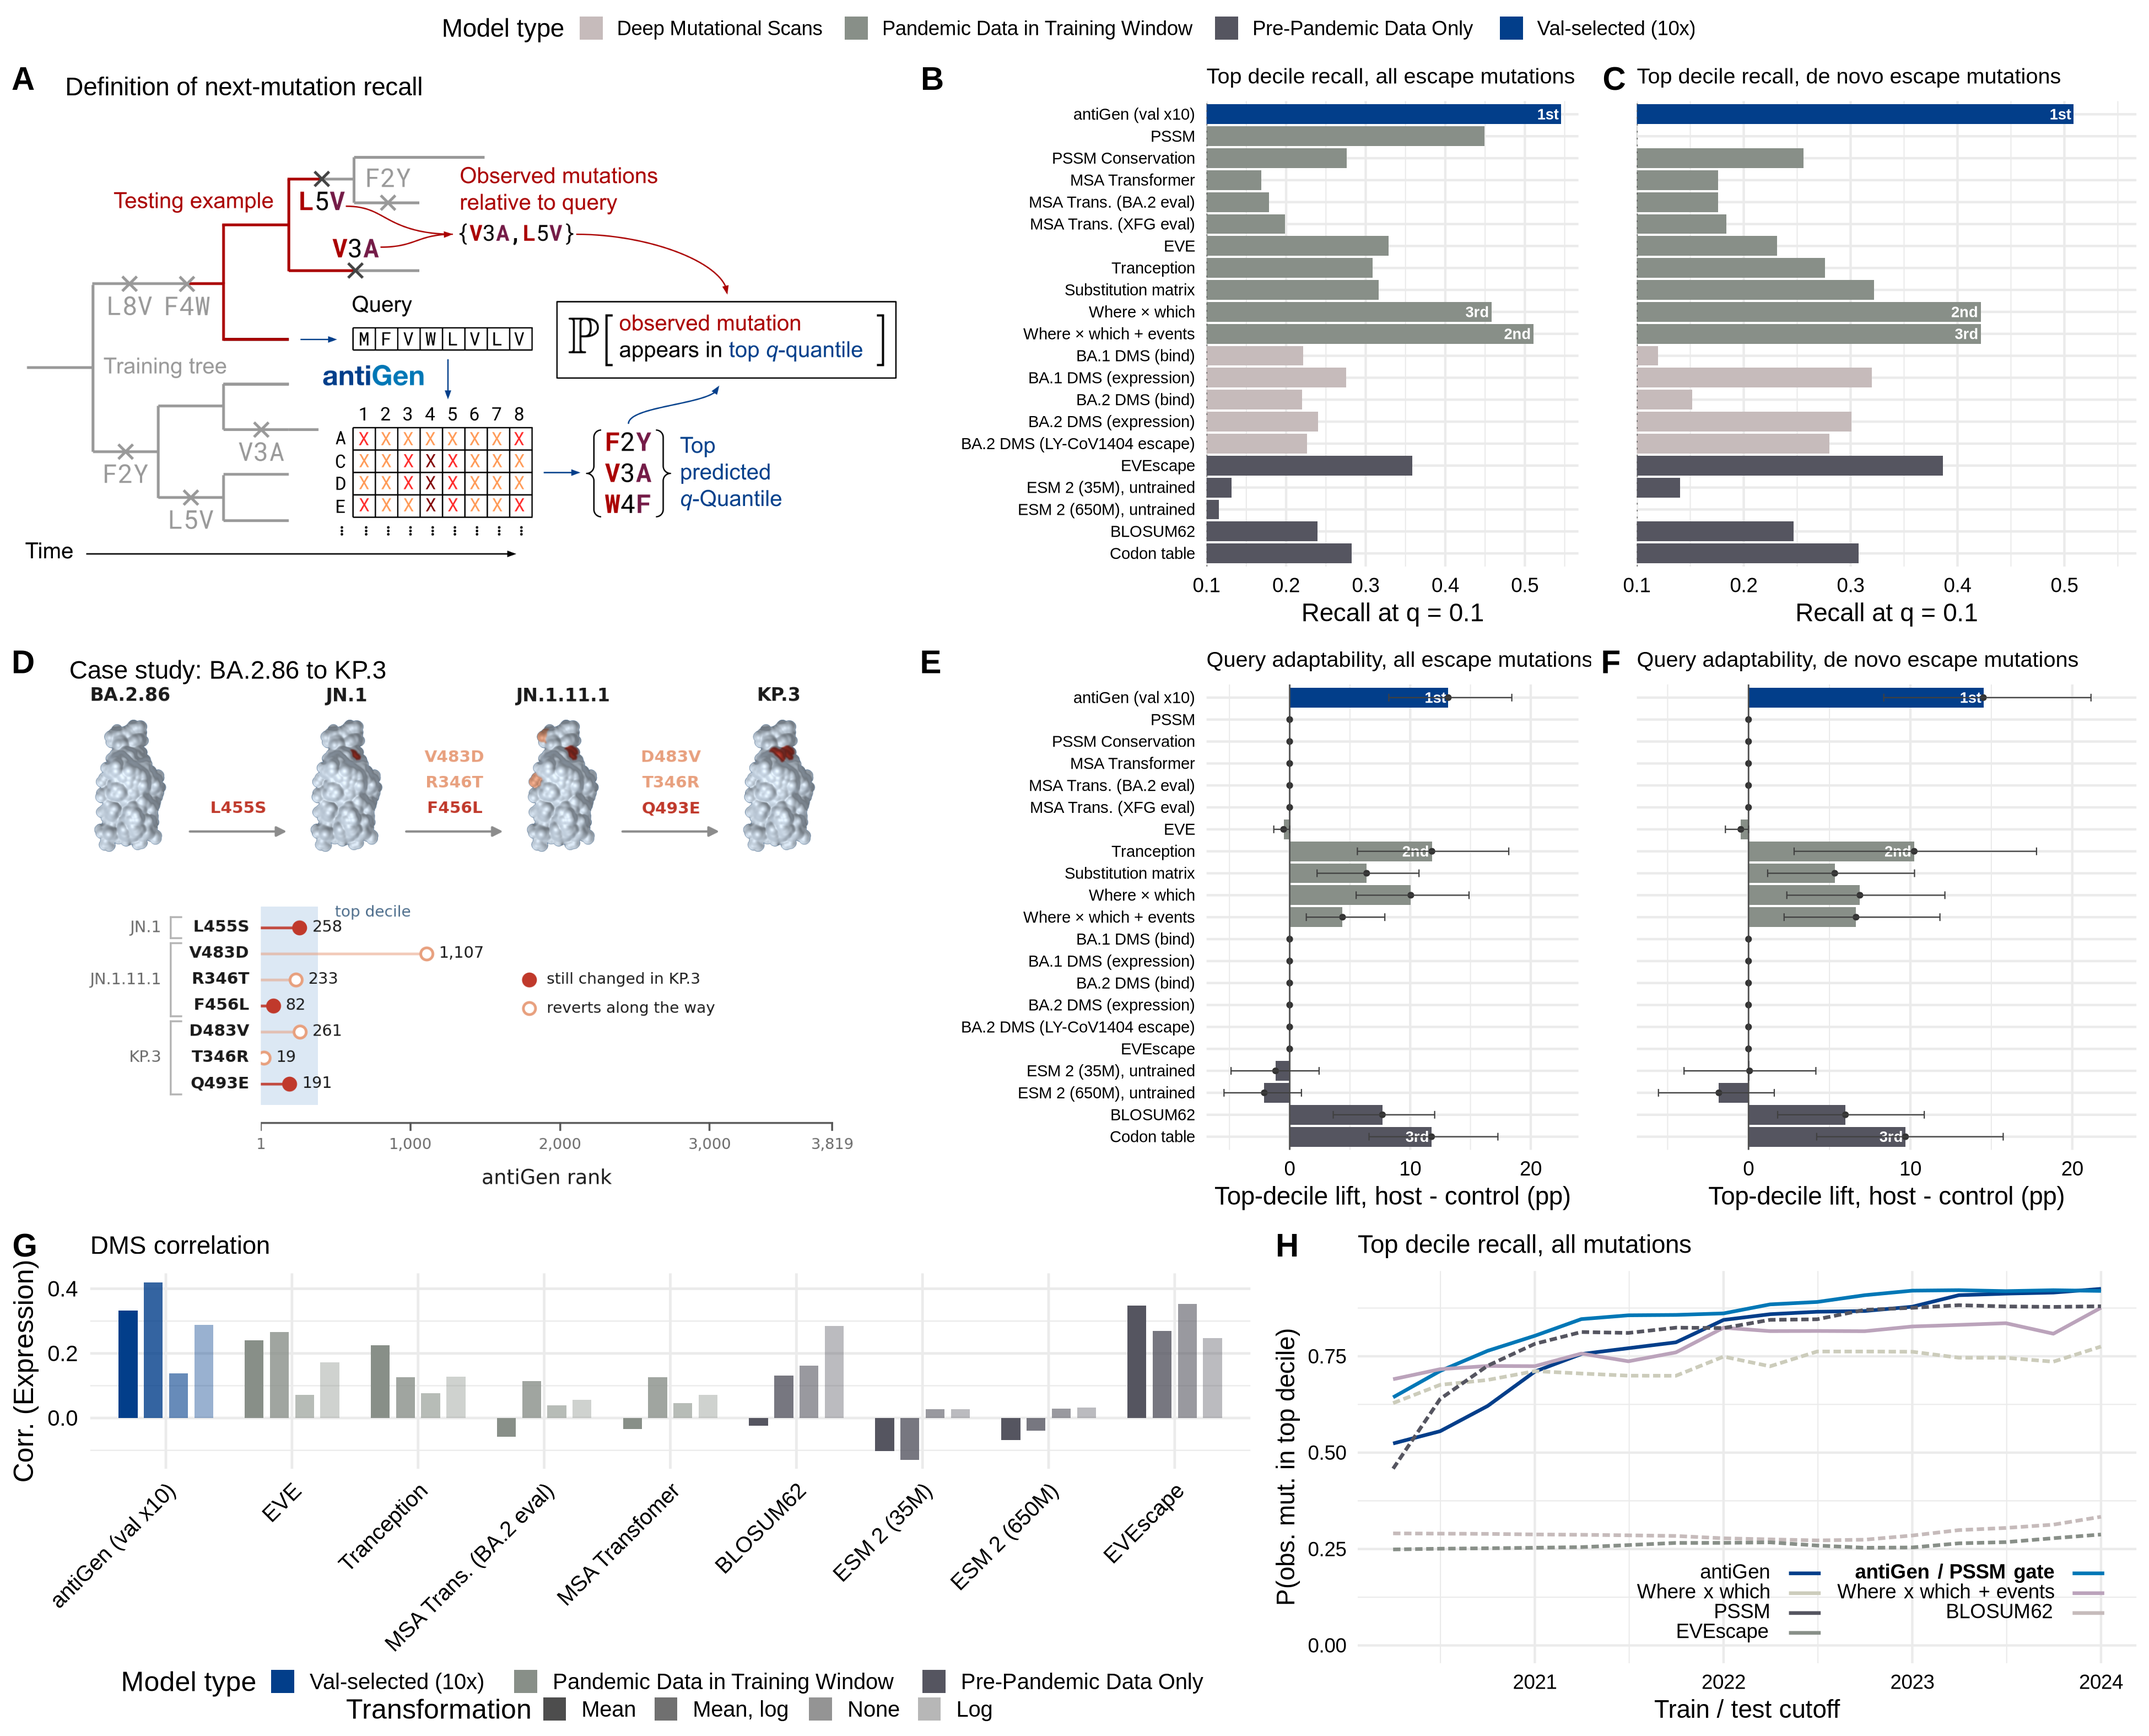
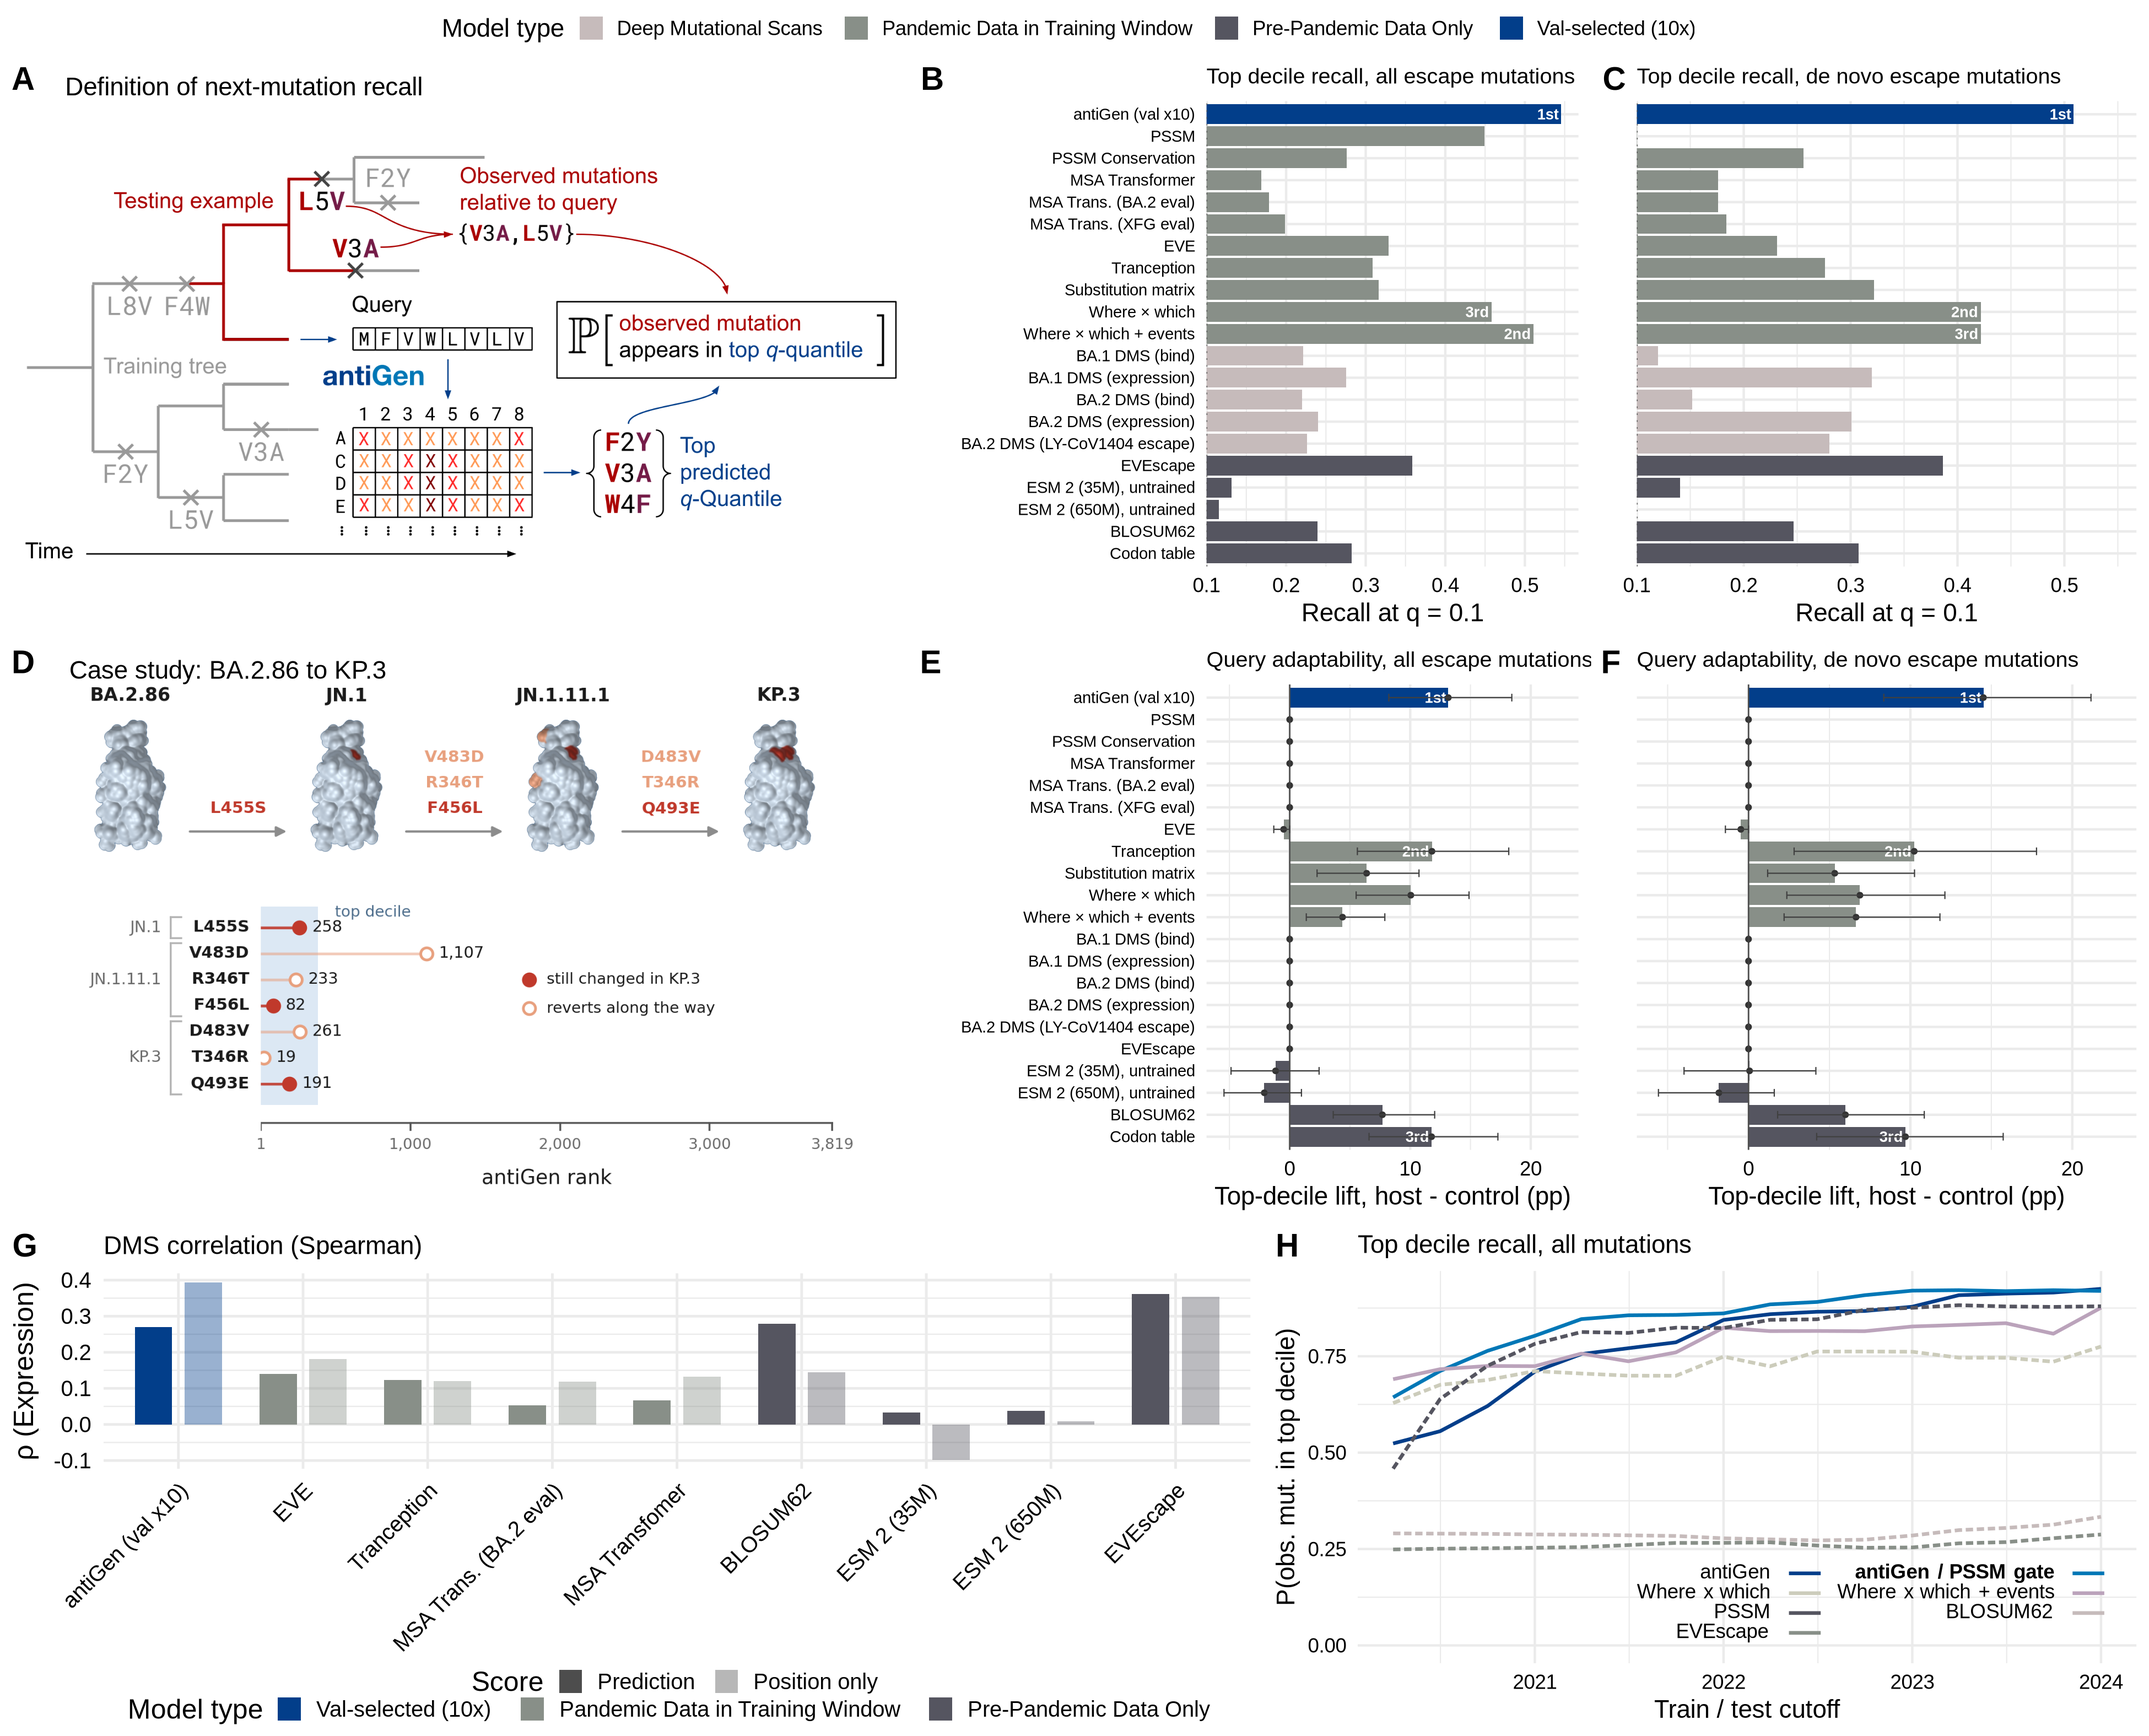
Panel G: Spearman, two bars instead of four
Four Pearson bars were {native, log space} x {prediction, position-only
control}. Rank correlation is invariant to a monotone transform, and
take_log is exactly that, so the space pair collapses -- verified to 1e-9
across all 27 models. That leaves prediction against control.

The control is now the row-mean of RANKS, not of scores. The score version
is not transform-invariant: log and linear disagree for all 27 models and
in SIGN for BLOSUM62 and both MSA Transformers, so which bar you drew
decided the control's sign. The rank version is invariant by construction
(0 of 27 disagree) and lands near the log form, which makes the negative
score-mean numbers an artifact of arithmetic averaging in probability
space. Ties are midranks, matching cor(method="spearman") -- which matters
because the control is constant within a site, so each site is a 20-way
tie block.

The labels are parameters of make_dms_corr_plot, not options. As options
they leaked: panels_sc2_export.R sets scratch figure names but
fig_sc2_aa20.R sets its own afterwards and wins, so that file has always
been overwriting the published sc2_results_aa20 and aa20_supp_* outputs,
and a label meant for this Spearman panel relabelled a Pearson panel
"Spearman". Verified those re-render byte-identical now.

diff --git a/experiments/multitree/NOTES.md b/experiments/multitree/NOTES.md
@@ -11293,3 +11293,75 @@ escape mutations and de novo escape mutations.
 * `antiGen/data/baselines/BloomNeher_2023-10-01.csv` -- new.
 * `examples/slurm/train_valsel_seed.sh` -- new.
 * `examples/slurm/train_antigen_valsel10.sh` -- `SEEDS`, and the completion test.
+
+## 102. Panel G becomes Spearman: two bars, not four (2026-11-01)
+
+Panel G drew four Pearson bars per model: {native space, log space} x {prediction,
+position-only control}. It now draws two Spearman bars: prediction, and a position-only
+control summarised by RANK.
+
+### Why four collapses to two
+
+Rank correlation is invariant to a monotone transform, and `take_log` is exactly that
+(exp for the pipeline models, log for the baselines). **Checked, not assumed**: across
+all 27 models the log and linear Spearmans agree to within 1e-9 for the prediction. So
+two of the four bars carried no information once the metric changed.
+
+The control does not collapse that way. `mean_norm` replaces each row by the mean of
+its SCORES, and a row-mean of exp(x) (arithmetic) orders sites differently from a
+row-mean of x (roughly geometric): log and linear disagree for **all 27** models, and
+in SIGN for BLOSUM62 (-0.017 vs 0.141) and both MSA Transformers (-0.165 vs 0.151).
+Which bar you drew decided whether the control looked positive or negative.
+
+So the control is the row-mean of RANKS instead, which is invariant by construction --
+verified: 0 of 27 disagree. It lands near the log form (BLOSUM62 0.145, MSA Trans. BA.2
+0.118), so the negative value-mean numbers were an artifact of arithmetic averaging in
+probability space. Ties are midranks, which is what `cor(method = "spearman")` uses;
+this matters because the control is constant within a site, so every site is a 20-way
+tie block.
+
+### Panel G, Spearman (Expression)
+
+| model | prediction | position-only (rank) |
+|---|---:|---:|
+| EVEscape | 0.362 | 0.354 |
+| BLOSUM62 | 0.279 | 0.145 |
+| antiGen (val x10) | 0.270 | **0.394** |
+| EVE | 0.140 | 0.181 |
+| Tranception | 0.123 | 0.120 |
+| MSA Transformer | 0.067 | 0.133 |
+| MSA Trans. (BA.2 eval) | 0.053 | 0.118 |
+| ESM 2 (650M) | 0.038 | 0.008 |
+| ESM 2 (35M) | 0.033 | -0.098 |
+
+**antiGen's control exceeds its prediction** (0.394 vs 0.270): collapsing each site to
+its mean rank correlates with DMS expression BETTER than the full per-residue output.
+EVEscape is the same shape with the gap closed (0.362 vs 0.354). This is robust to the
+control definition, so it is a property of the models against this assay rather than a
+measurement choice -- and it is the intended reading of the panel, not a problem with
+it: the claim being supported is that there is a predictor correlating with DMS, site
+level being enough.
+
+### The option that leaked, and the clobbering it exposed
+
+The three labels were first done as options. They leaked, because
+**`panels_sc2_export.R` causes the PUBLISHED `sc2_results_aa20` to be drawn**: it sets
+`sc2.fig_main`/`sc2.fig_prefix` to scratch names, but `fig_sc2_aa20.R` sets its own
+afterwards and wins -- the precedence trap of s85 and s93 again. So the scratch naming
+never applied to that figure, every `fig_sc2_revised.R` run has been overwriting
+`figs/sc2_results_aa20.png` and the `aa20_supp_*` files, and a label set for this
+Spearman panel relabelled a PEARSON panel "Spearman" in a figure nobody asked to touch.
+
+Labels are now PARAMETERS of `make_dms_corr_plot`, which cannot leak across a source.
+Confirmed afterwards that `sc2_results_aa20.png` and `aa20_supp_dms.png` re-render
+byte-identical and only `sc2_results_revised.png` moves.
+
+Worth keeping as a shape: an option is global to the session, so it is the wrong tool
+whenever the same builder serves two figures in one process.
+
+### Code
+
+* `antiGen-figures/R/common.R` -- `cor_with_NA_mask(method=)`.
+* `antiGen-figures/figures/fig2_sc2_benchmarks.R` -- `rank_mean_rows`, the Spearman
+  dump and frame, caller-supplied `transformation`, label parameters.
+* `antiGen-figures/figures/panels_sc2_export.R` -- panel G off the Spearman frame.
